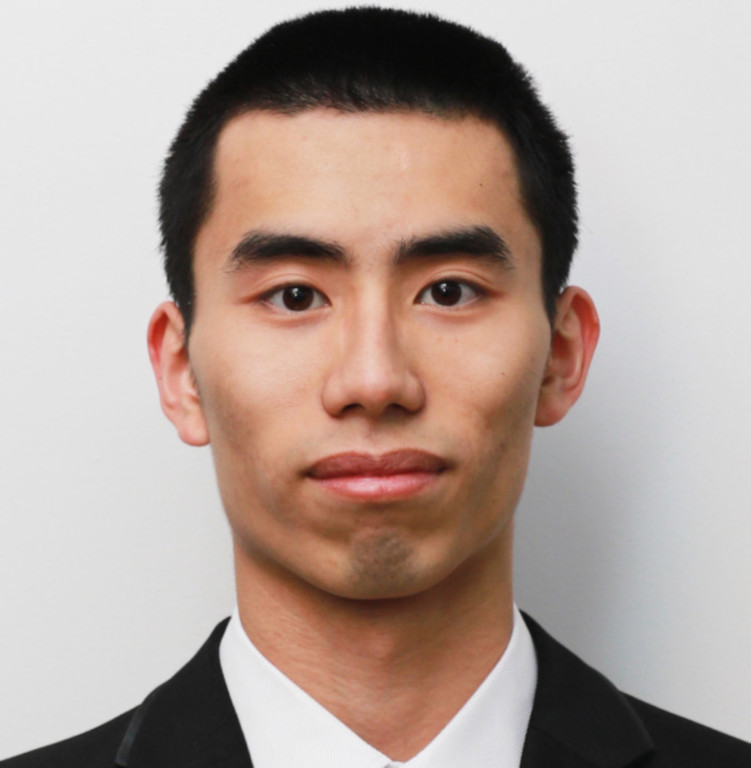
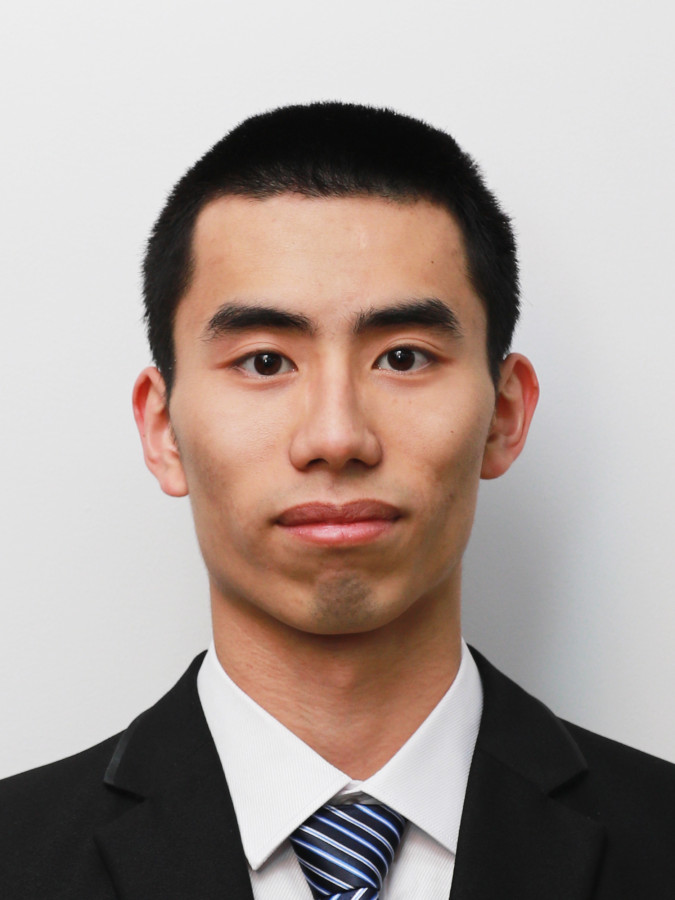
update picture

diff --git a/assets/css/index.css b/assets/css/index.css
@@ -44,9 +44,9 @@ body {
       margin-bottom: 1rem;
       width: 8rem;
       height: 8rem;
-      overflow: hidden;
+      /*overflow: hidden;*/
       position: relative; }
-      .container .side .me .portrait .loading {
+/*      .container .side .me .portrait .loading {
         position: absolute;
         top: 50%;
         transform: translateY(-50%);
@@ -59,8 +59,8 @@ body {
         height: 100%;
         border-radius: 4px;
         background: lightgreen;
-        -webkit-animation: load 1s ease infinite; }
-@-webkit-keyframes load {
+        -webkit-animation: load 1s ease infinite; }*/
+/*@-webkit-keyframes load {
   0%,100% {
     height: 3rem;
     margin: .5rem 0;
@@ -90,7 +90,7 @@ body {
         display: none;
         width: 8rem;
         height: 8rem;
-        border-radius: 50%; }
+        border-radius: 50%; }*/
   .container .side .info-unit ul li label {
     display: inline-block;
     width: 35%; }

diff --git a/index.html b/index.html
@@ -41,11 +41,12 @@
                 <section class="portrait">
 
                     <!-- 头像照片 -->
-                    <img class="avatar" src="./assets/images/avatar.jpg"  onload="loading()">
-
+                    <!-- <img class="avatar" src="./assets/images/avatar.jpg"  onload="loading()"> -->
+                    <img src="./assets/images/avatar.jpg" style="width: 100%;" alt="">
                 </section>
-
-                <h1 class="name">邓昭宇</h1>
+                <br>
+                <br>
+                <h2 class="name">邓昭宇</h2>
                 <h4 class="info-job">MATLAB / 电子 / 心理 / 认知神经</h4>
 
             </section>
